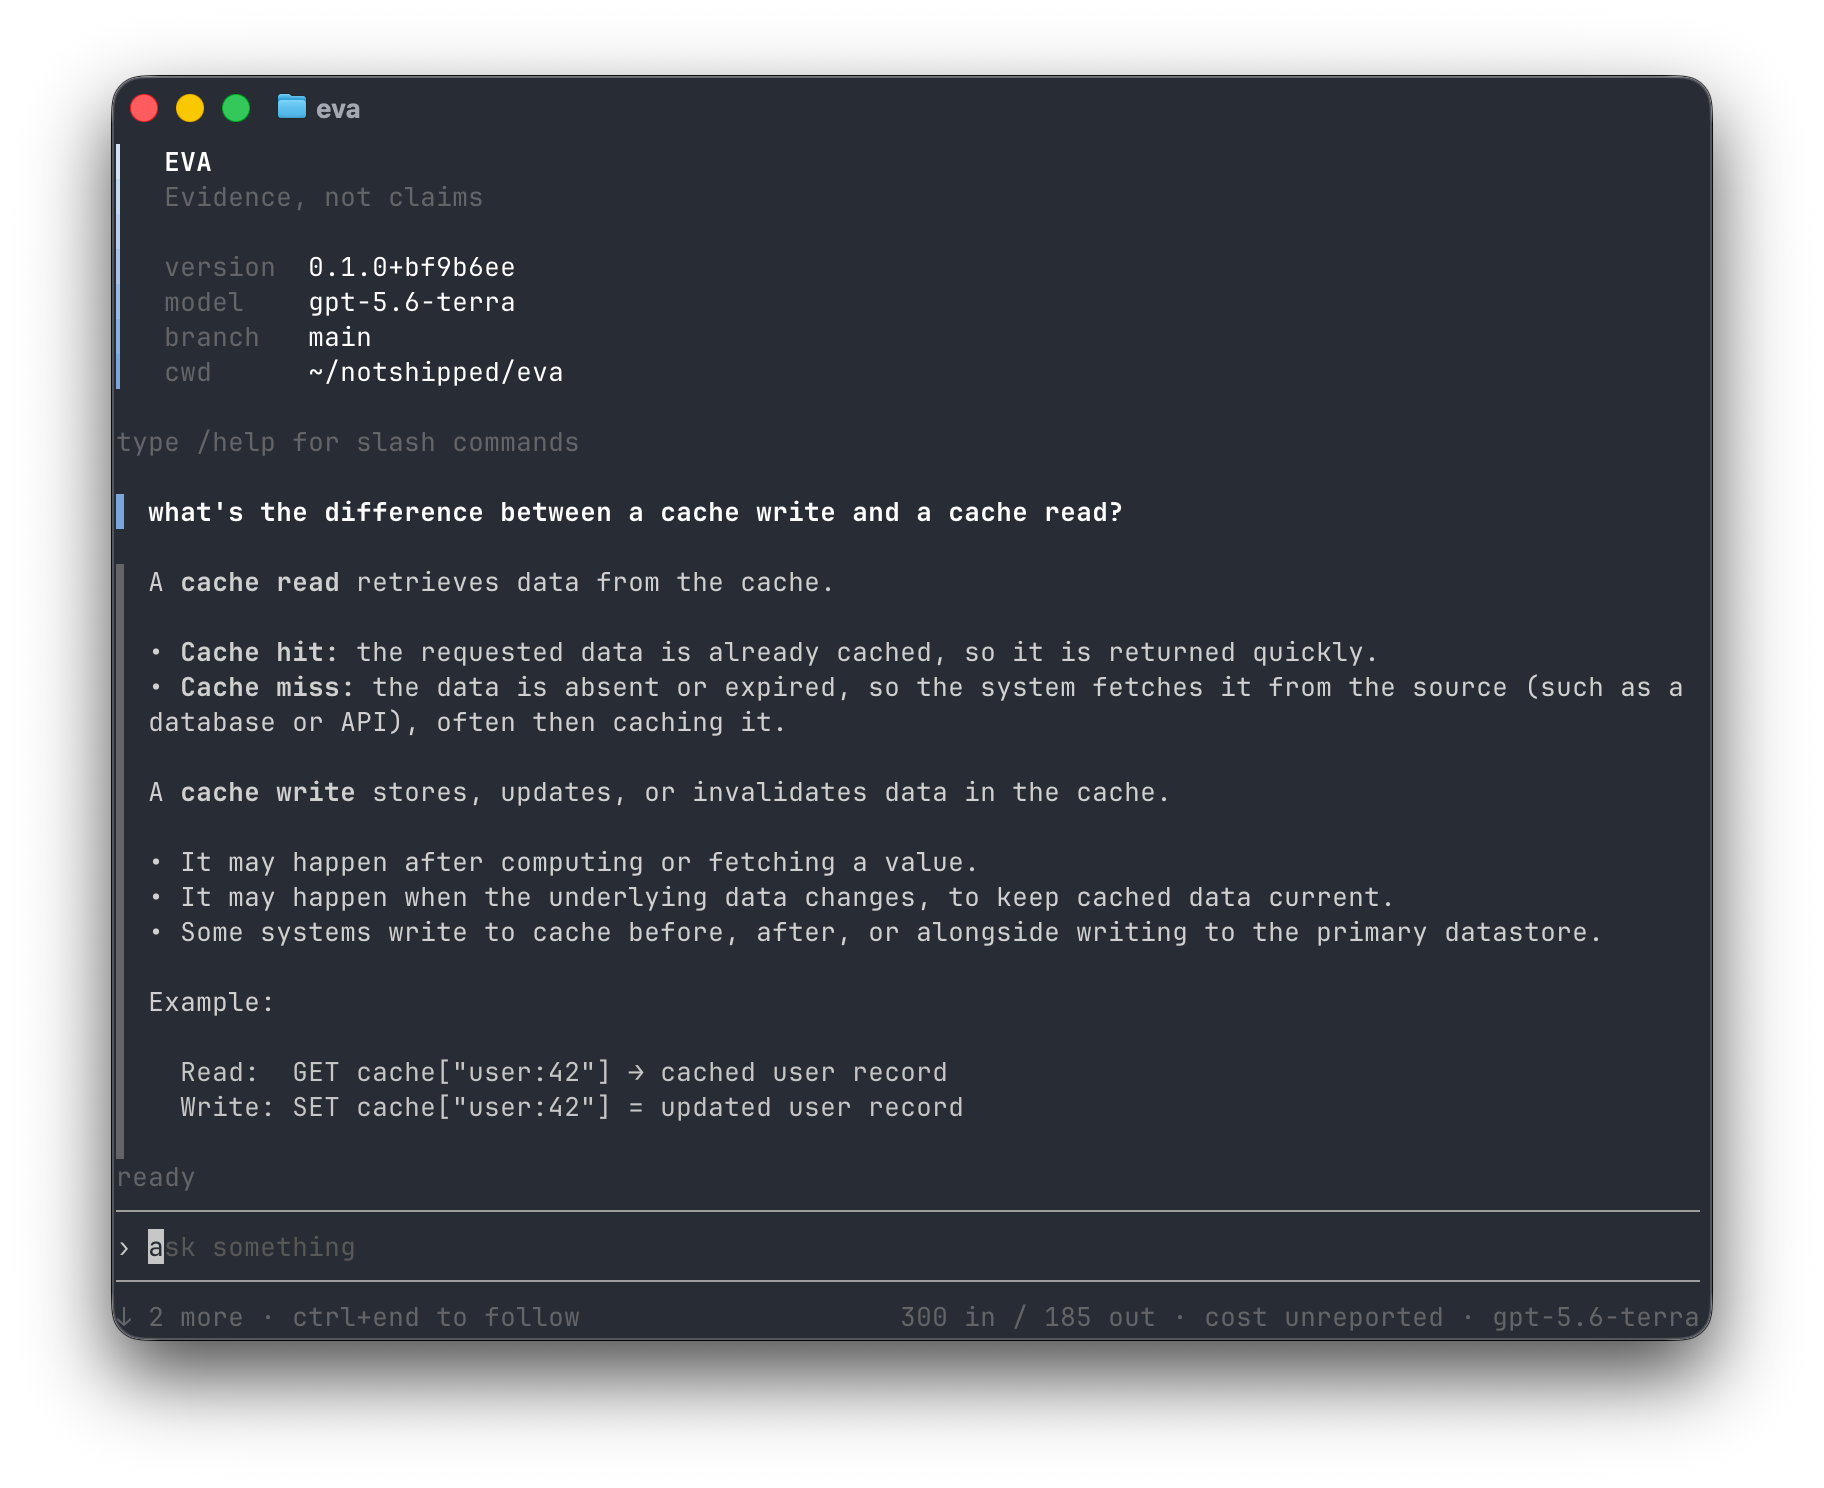
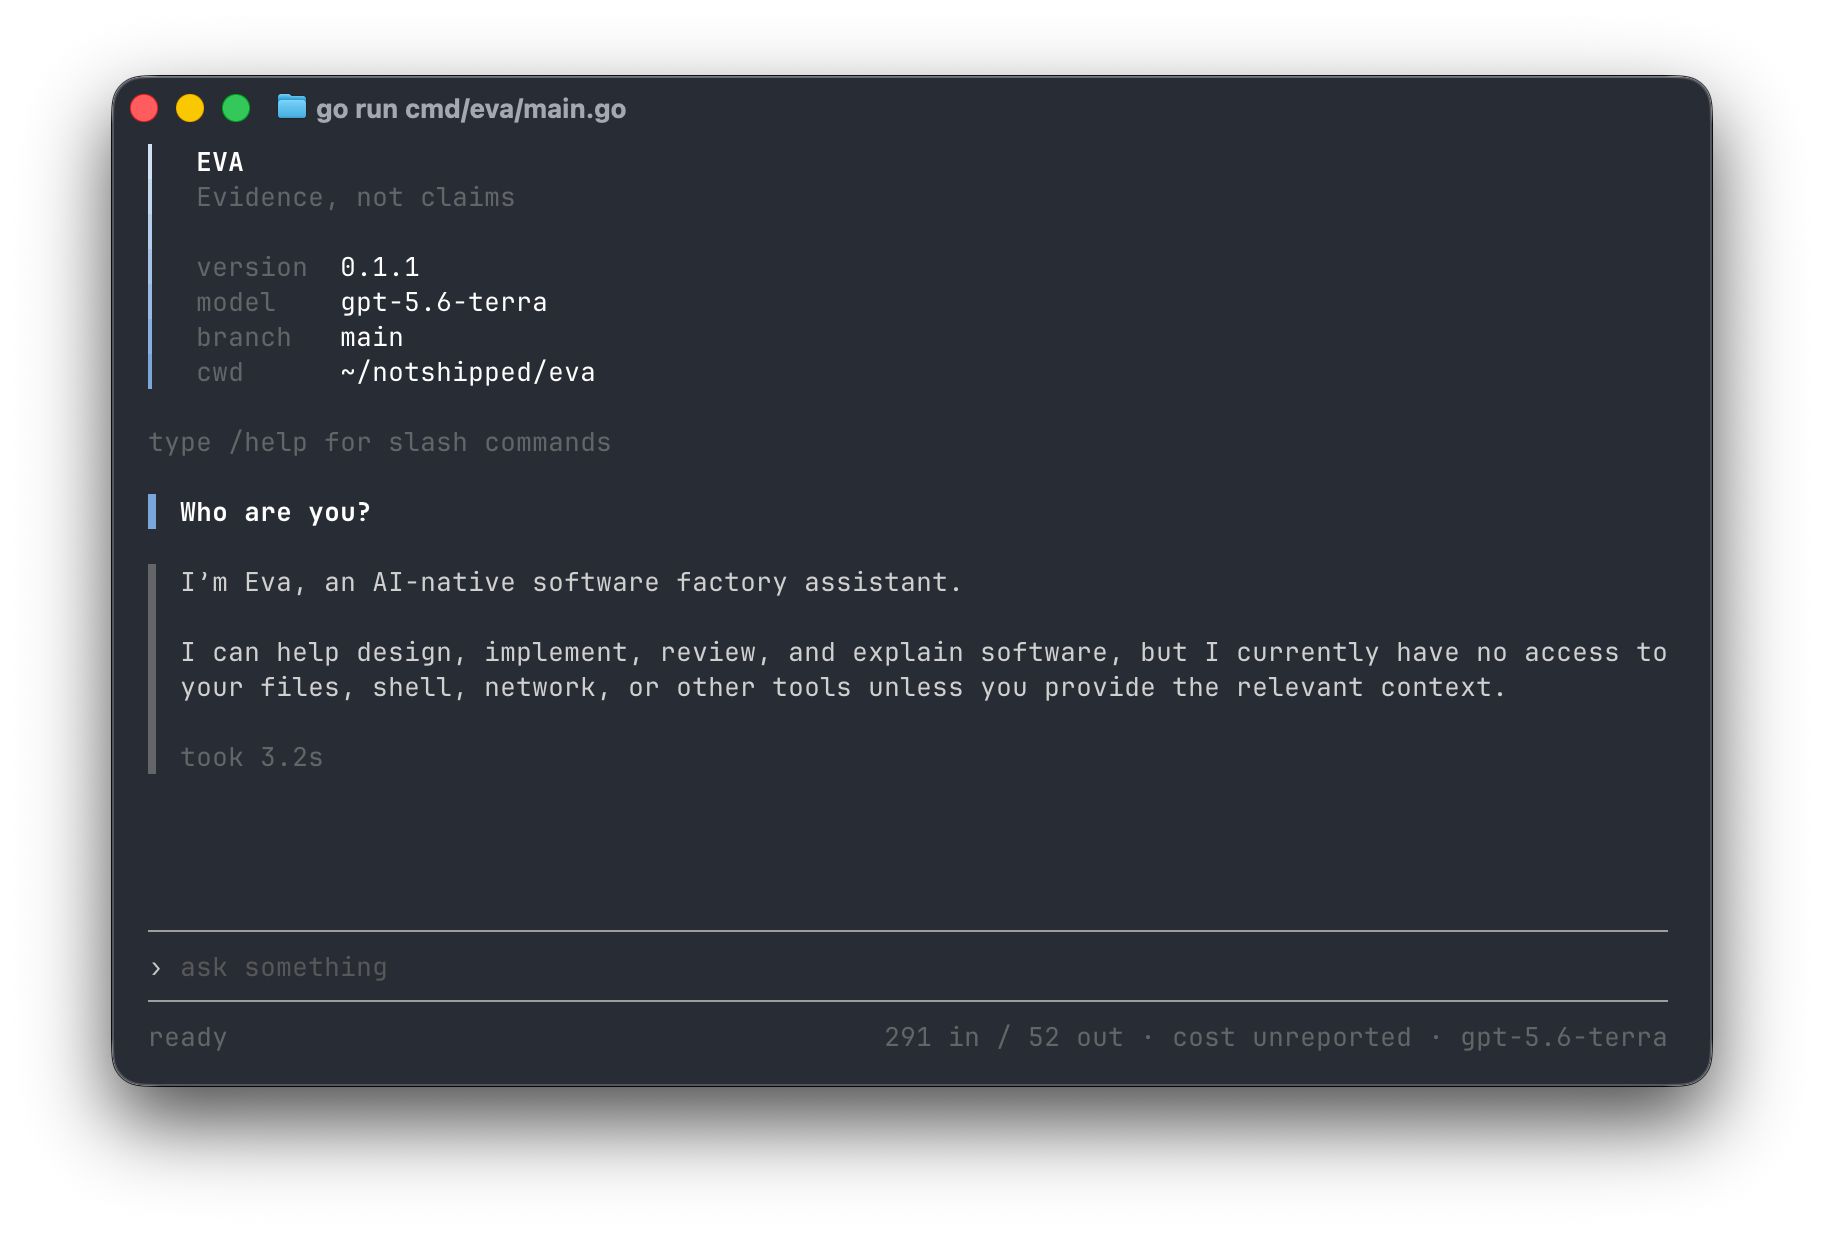
docs: change README header

Changed region(s): [[0.0625, 0.3387, 0.9375, 0.9546], [0.0625, 0.0308, 0.9375, 0.3079]]

diff --git a/README.md b/README.md
@@ -1,8 +1,8 @@
 <p align="center">
   <picture>
-    <source media="(prefers-color-scheme: dark)" srcset="docs/assets/eva-banner-dark.png">
-    <source media="(prefers-color-scheme: light)" srcset="docs/assets/eva-banner-light.png">
-    <img alt="Eva — an autonomous, multi-tenant, AI-native software factory" src="docs/assets/eva-banner-dark.png" width="100%">
+    <source media="(prefers-color-scheme: dark)" srcset="docs/assets/eva-logo-white.svg">
+    <source media="(prefers-color-scheme: light)" srcset="docs/assets/eva-logo-black.svg">
+    <img alt="Eva — an autonomous, multi-tenant, AI-native software factory" src="docs/assets/eva-logo-black.svg" width="36%">
   </picture>
 </p>
 
@@ -17,7 +17,7 @@
 </p>
 
 <p align="center">
-  <img alt="Eva answering a question in the terminal, with token counts in the status line" src="docs/assets/eva-cli.png" width="720">
+  <img alt="Eva answering a question in the terminal, with token counts in the status line" src="docs/assets/eva-cli.png" width="100%">
 </p>
 
 ---
@@ -94,15 +94,15 @@ else. See [theme a repository](docs/how-to/theme-a-repository.md).
 
 ### Documentation
 
-|                                                        |                                            |
-| ------------------------------------------------------ | ------------------------------------------ |
-| [tutorial/first-run.md](docs/tutorial/first-run.md)                   | Build it, ask one question, read it back      |
-| [how-to/](docs/how-to/)                                               | One guide per task                            |
-| [reference/commands.md](docs/reference/commands.md)                   | Every command, flag, slash command, and key   |
-| [reference/configuration.md](docs/reference/configuration.md)         | Every setting, and what it defaults to        |
-| [docs/Product.md](docs/Product.md)                                    | The map to every design document              |
-| [docs/decisions.md](docs/decisions.md)                                | Every decision on one page                    |
-| [CONTEXT.md](CONTEXT.md)                                              | The glossary. One concept, one name           |
+|                                                               |                                             |
+| ------------------------------------------------------------- | ------------------------------------------- |
+| [tutorial/first-run.md](docs/tutorial/first-run.md)           | Build it, ask one question, read it back    |
+| [how-to/](docs/how-to/)                                       | One guide per task                          |
+| [reference/commands.md](docs/reference/commands.md)           | Every command, flag, slash command, and key |
+| [reference/configuration.md](docs/reference/configuration.md) | Every setting, and what it defaults to      |
+| [docs/Product.md](docs/Product.md)                            | The map to every design document            |
+| [docs/decisions.md](docs/decisions.md)                        | Every decision on one page                  |
+| [CONTEXT.md](CONTEXT.md)                                      | The glossary. One concept, one name         |
 
 ### Contributing
 
